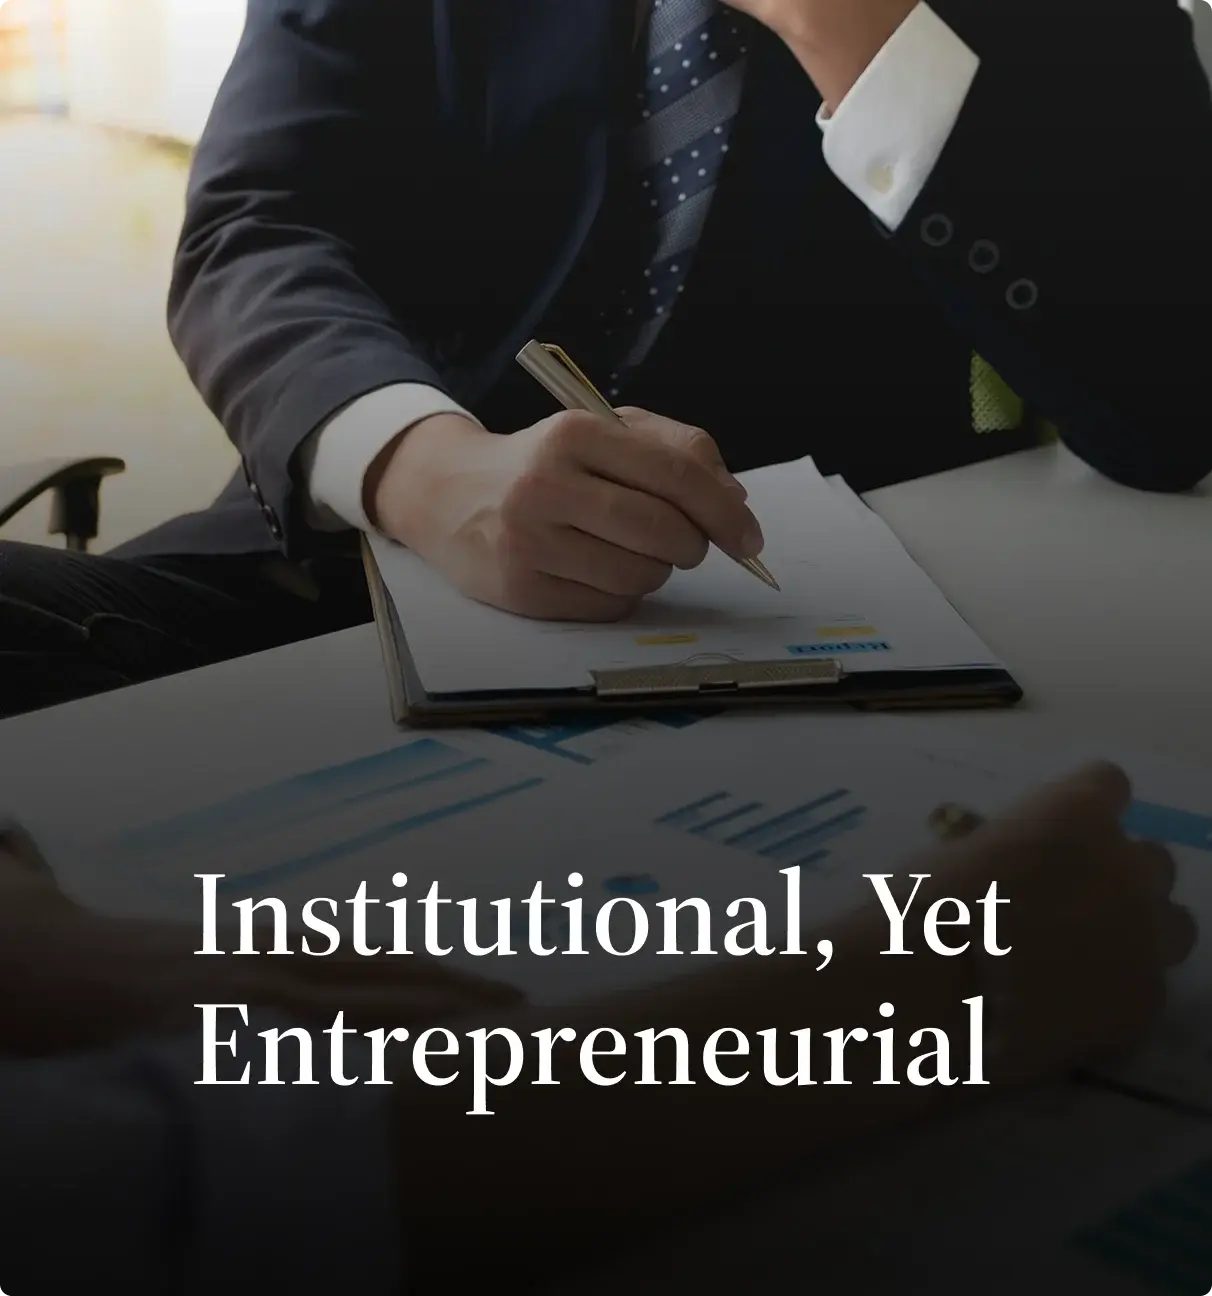
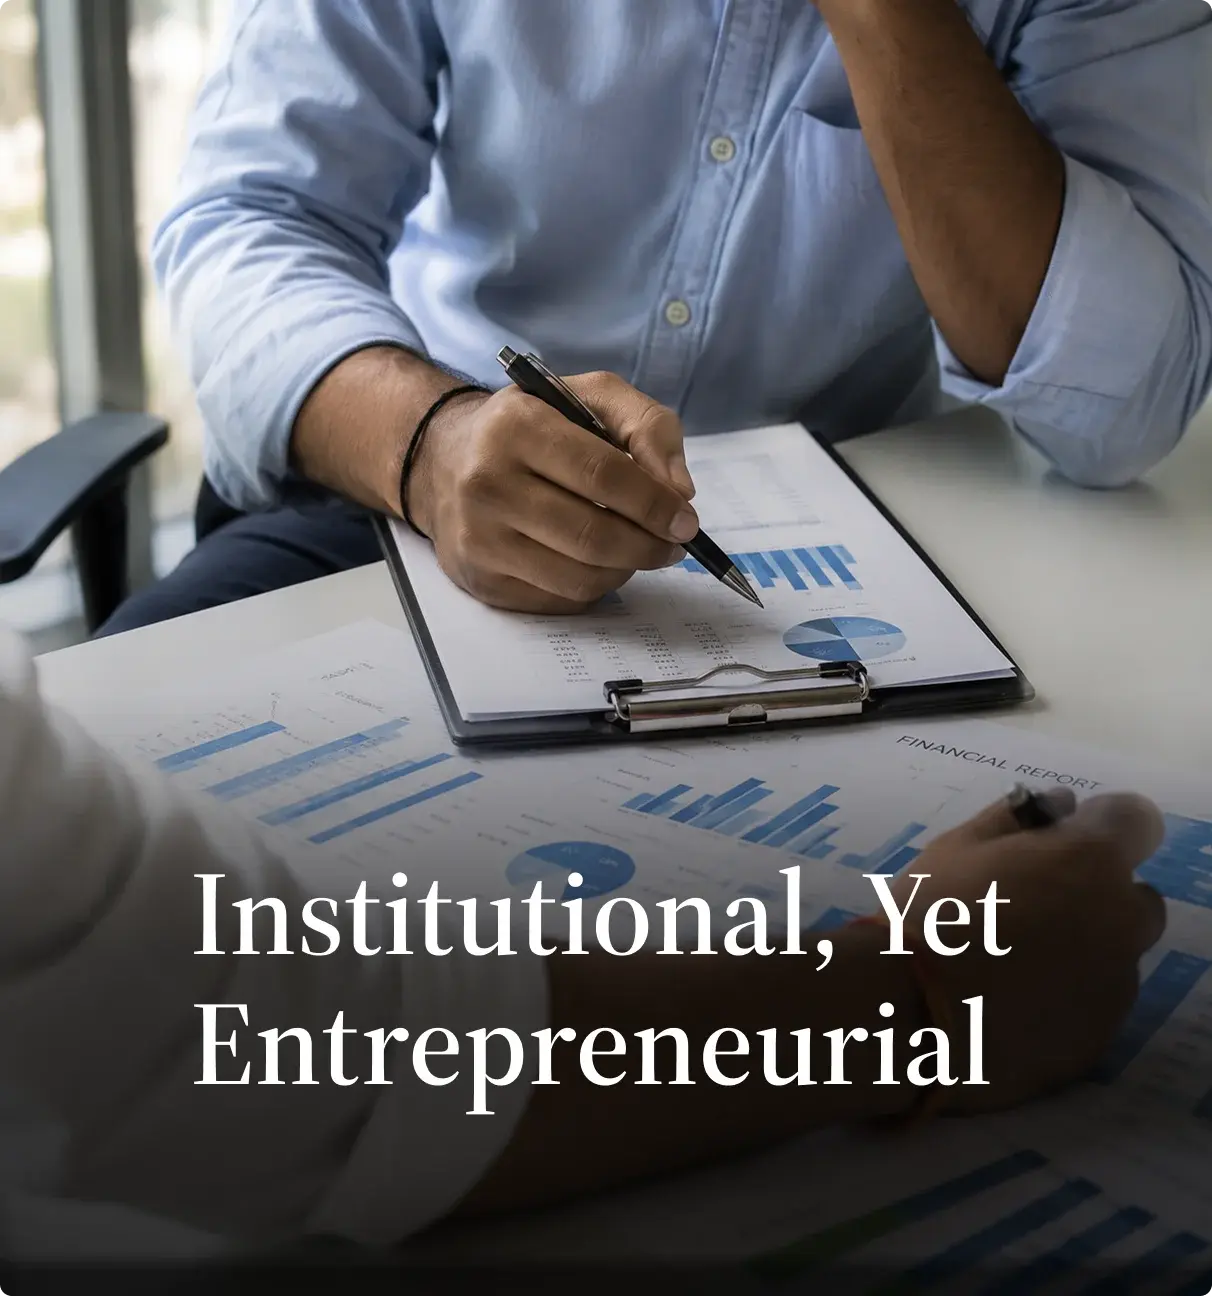
refactor: Update bios for clarity in leadership section and replace differentiator images for enhanced visual consistency

diff --git a/app/leadership/_components/data.ts b/app/leadership/_components/data.ts
@@ -86,7 +86,7 @@ export const people: Person[] = [
     image: "/images/ManojKohli.webp",
     bio: [
       "Manoj is a veteran financial services and technology business leader",
-      "Before joining Lightrock, Manoj most recently served as Head of India for SoftBank Group, where he was responsible for investments in Indian companies through the SoftBank Vision Fund. Prior to that, he was the Chief Executive Officer and Managing Director for Asia and Africa at Bharti Airtel, where he is credited with scaling the business into a global telecom leader.",
+      "Manoj most recently served as Head of India for SoftBank Group, where he was responsible for investments in Indian companies through the SoftBank Vision Fund. Prior to that, he was the Chief Executive Officer and Managing Director for Asia and Africa at Bharti Airtel, where he is credited with scaling the business into a global telecom leader.",
       "He holds a Bachelor of Commerce from Shri Ram College of Commerce, an LLB from the University of Delhi, an MA in Human Resources Management from the Indian Society for Training & Development, and an MBA from the University of Delhi.",
     ],
     social: {
